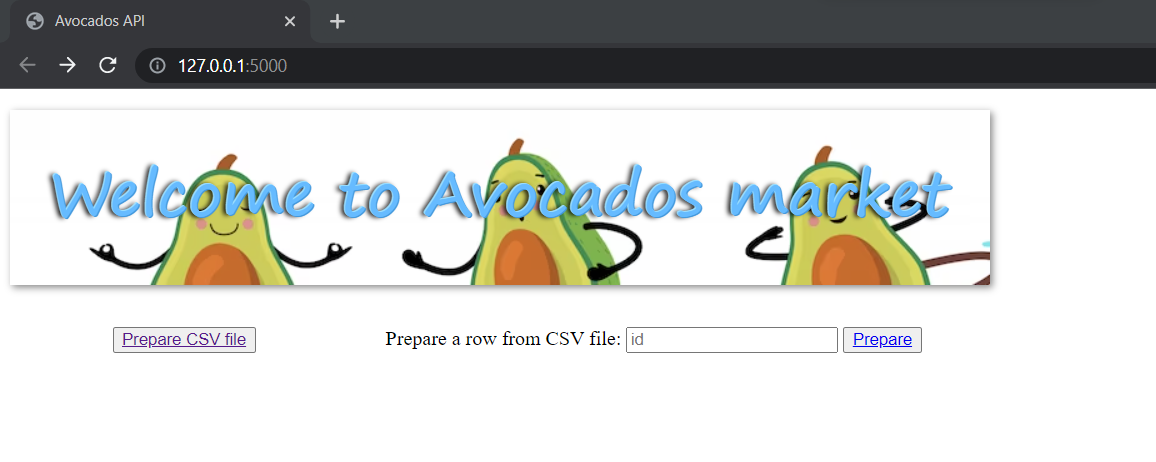
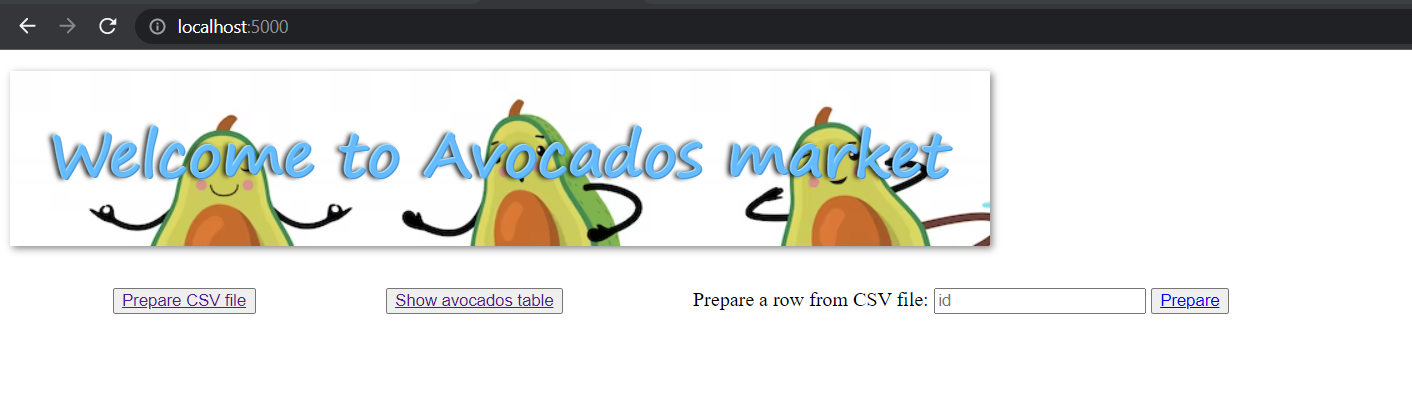
doc: update

diff --git a/flask-api/README.md b/flask-api/README.md
@@ -6,22 +6,24 @@ Prepared data are also stored in [MongoDB database](https://www.mongodb.com/).
 
 ## Functionality
 
-1. Start the web application (interactive HTML page)
+1. Launch the application 
 2. Prepare a CSV file
-3. Prepare a single row from the CSV file
+3. Prepare a single row from the CSV file (metadata should be added to csv file in order to synchronize with database)
 4. CRUD operations on the database, multiple endpoints (see service.py)
 
 
 ## Usage
 
 This application uses Flask REST API and a MongoDB database, it is dockerized.
+After cloning the repository:
 
-1. Start the web application
+1. Launch the application: 
 
-From the root directory of the project run:
+From the root directory of the project, run:
 ```
 docker-compose up
 ```
+
 
 It will start a web server available in your browser at http://localhost:5000.
 ![index.html](../images/index.png)
@@ -46,7 +48,7 @@ You can check the logs while data is prepared
 
 It will output a JSON file, and insert the document to mongodb.
 
-![index.html](../images/output.png)
+![index.html](../images/ok.png)
 
 3. Prepare a single row from the CSV file
 
@@ -65,16 +67,29 @@ It will output a JSON file with one element, and insert a new line to mongodb or
 
 ![index.html](../images/output_row.png)
 
+4. Example of other operations: Retrieve all avocados data stored on MongoDB
+
+Click on Show avocados table, or send a GET request:
+
+![index.html](../images/output.png)
 
 Another way to test your REST API is to use [Postman](https://www.postman.com/).
 
 ## Testing
 
-Run tests of different levels (unit tests, intgration tests):
+Run tests of different levels (unit tests, intgration tests): 
 
 ```
 pytest flask-api/tests/ 
 ```
+
+The test: test_db.py will be run on the deployed test database on the cloud, if you want to run the tests on the local image of mongodb:
+
+remove the comment to the affectation of uri variable in connector fixture
+
+![index.html](../images/decoment.png)
+
+![index.html](../images/tests.png)
 
 ## Authors
 
